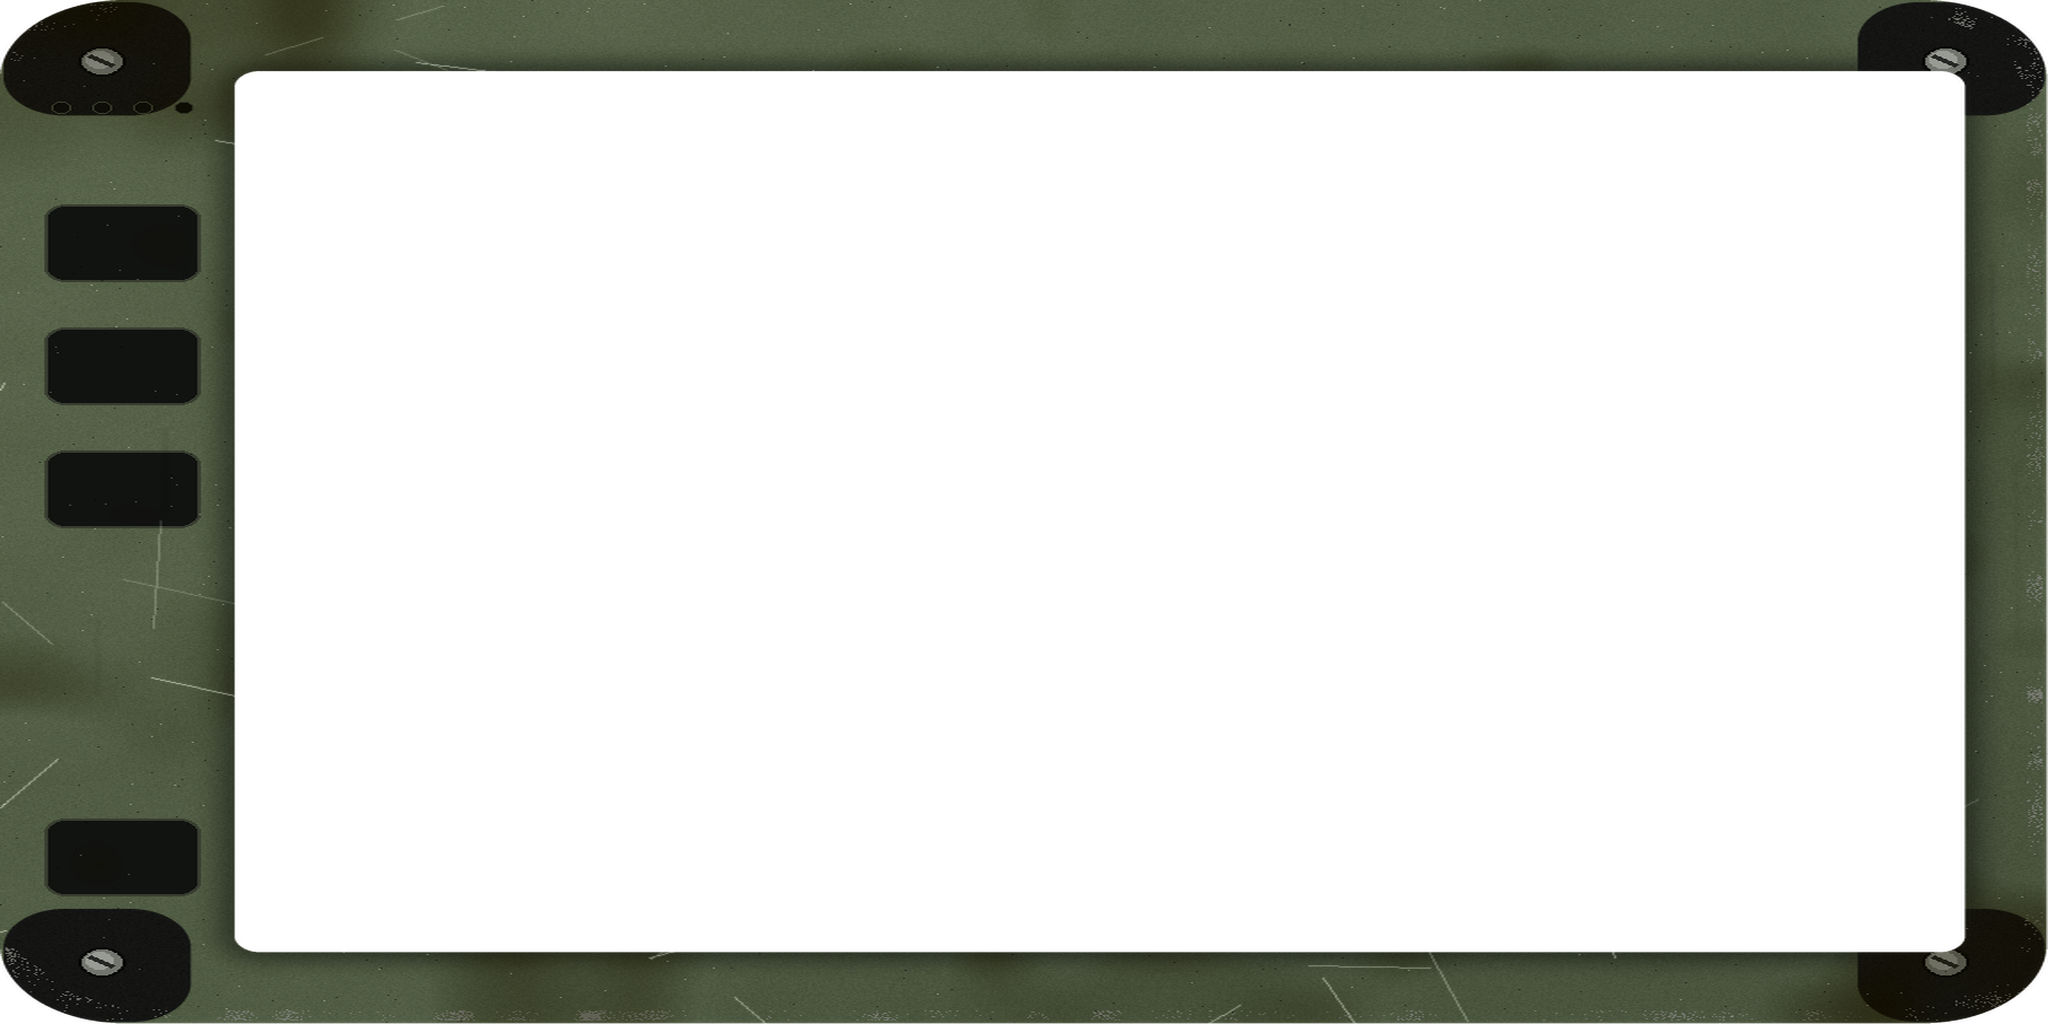
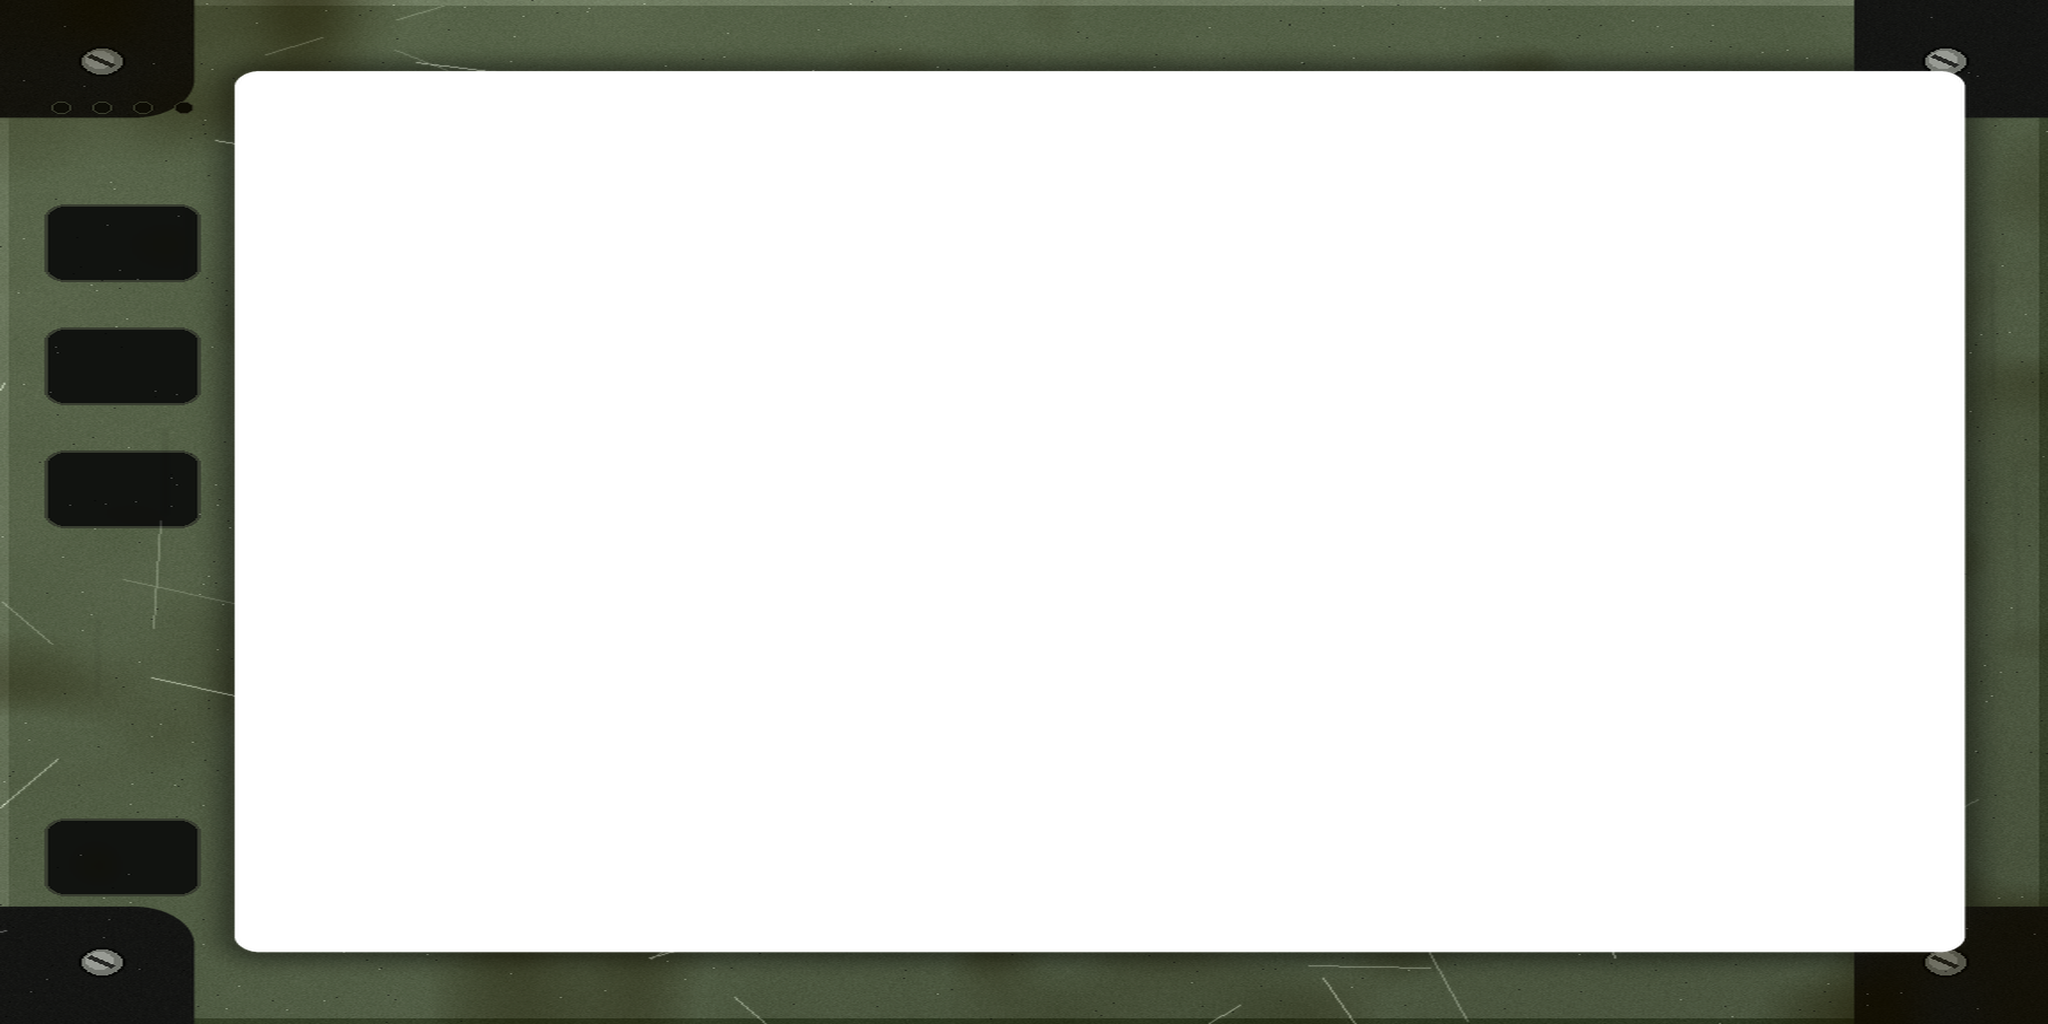
Housing: opaque rectangular silhouette and corner bumpers extended to canvas edge (no see-through corners)
Claude-Session: https://claude.ai/code/session_011SBtSE4BZEe59rwSQzqNbf

diff --git a/tools/gen_textures.py b/tools/gen_textures.py
@@ -137,13 +137,16 @@ def housing():
     base[..., :3] += grain[..., None] + smooth_noise(W, H, 40, 4.0)[..., None]
     base[..., 3] = 255
 
-    outer = rrect_mask(W, H, (0, 0, W - 1, H - 1), 70)
+    outer = np.ones((H, W), np.float32)      # dış silüet dikdörtgen: köşelerde şeffaf boşluk kalmaz
     # kenar kabartması: üst/sol açık, alt/sağ koyu
     edge_in = blur(outer, 5)
     ex = np.gradient(edge_in, axis=1)
     ey = np.gradient(edge_in, axis=0)
     bevel = (-(ex + ey)) * 60
     base[..., :3] += bevel[..., None]
+
+    base[:5, :, :3] += 26; base[:, :5, :3] += 18                   # üst/sol açık kenar
+    base[-5:, :, :3] -= 30; base[:, -5:, :3] -= 22                  # alt/sağ koyu kenar
 
     # ekran deliği + iç gölge
     sx0, sy0, sx1, sy1 = int(W * 0.115), int(H * 0.07), int(W * 0.96), int(H * 0.93)
@@ -153,8 +156,9 @@ def housing():
 
     # siyah lastik köşe tamponları
     bw, bh = int(W * 0.095), int(H * 0.115)
-    for (x0, y0) in [(0, 0), (W - bw, 0), (0, H - bh), (W - bw, H - bh)]:
-        m = rrect_mask(W, H, (x0 + 2, y0 + 2, x0 + bw - 2, y0 + bh - 2), 34)
+    ext = 60
+    for (bx0, by0, bx1, by1) in [(-ext, -ext, bw, bh), (W - bw, -ext, W + ext, bh), (-ext, H - bh, bw, H + ext), (W - bw, H - bh, W + ext, H + ext)]:
+        m = rrect_mask(W, H, (bx0, by0, bx1, by1), 34)
         rub = np.array([22, 23, 21], np.float32) + rng.normal(0, 2.2, (H, W))[..., None]
         for c in range(3):
             base[..., c] = base[..., c] * (1 - m) + rub[..., c] * m
